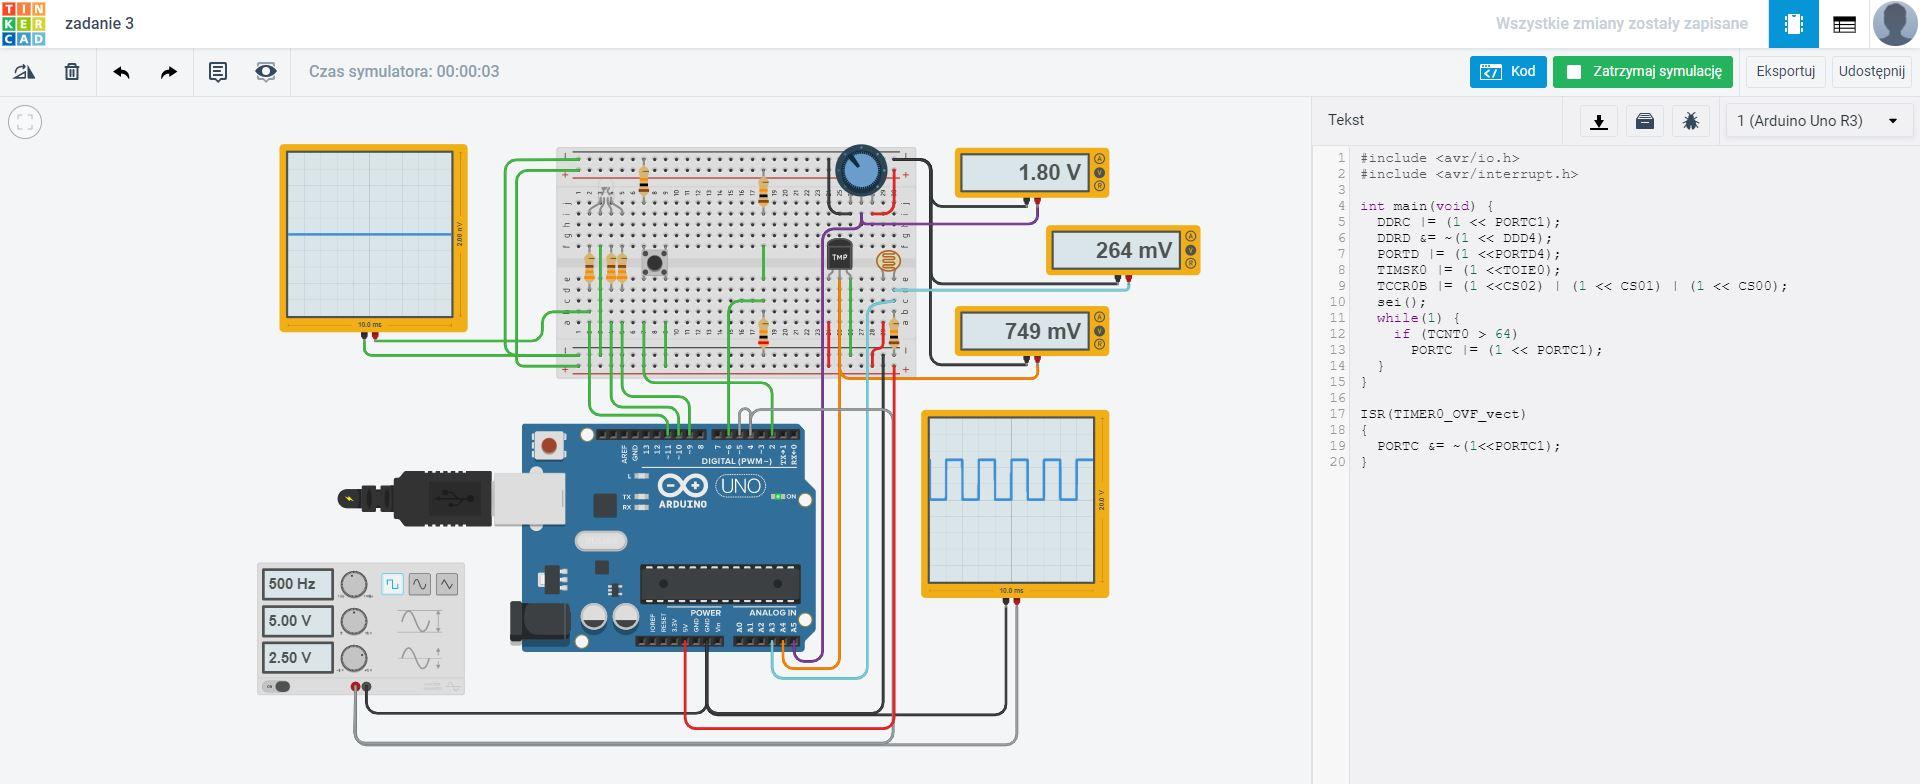
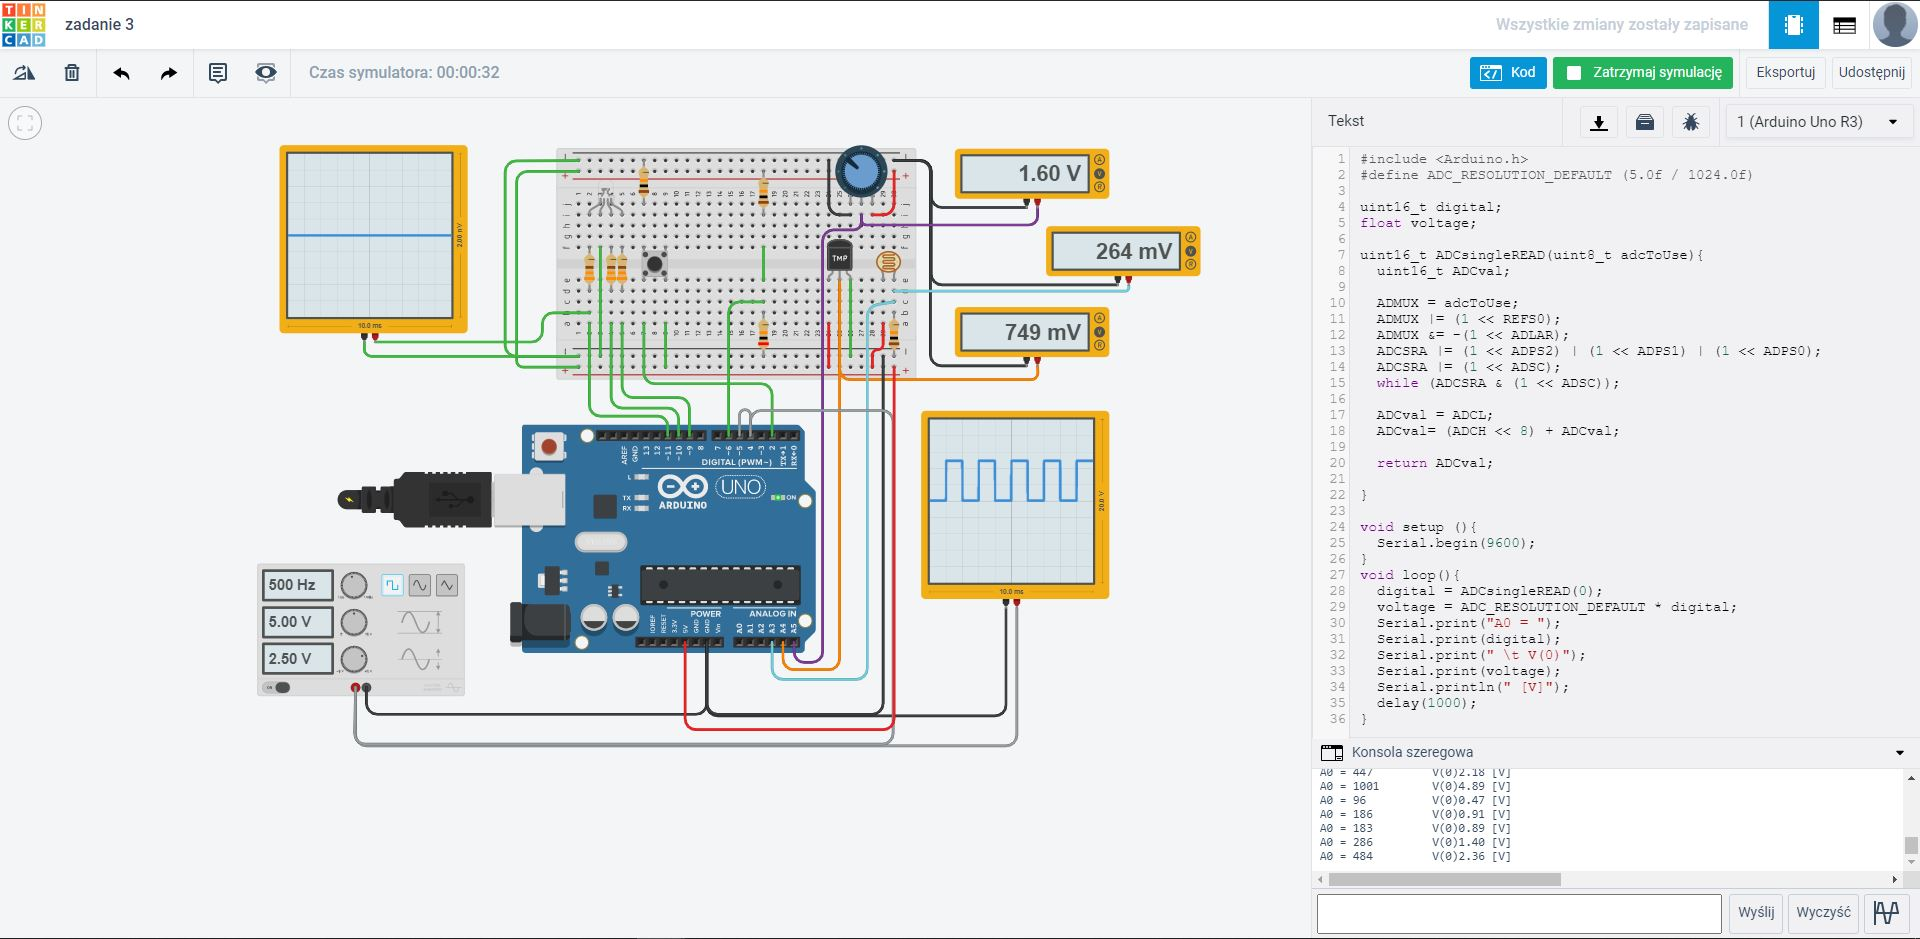
Wykonano zadanie 3.3.2 – ADCsingleREAD

diff --git a/Zadanie-3-3/src/main.cpp b/Zadanie-3-3/src/main.cpp
@@ -1,20 +1,35 @@
 #include <Arduino.h>
-#define ADC_RES_DEF (5.0f / 1024.0f)
+#define ADC_RESOLUTION_DEFAULT (5.0f / 1024.0f)
 
-void setup()
-{
-  Serial.begin(9600);
-  analogReference(DEFAULT);
-  pinMode(A5,INPUT);
+uint16_t digital;
+float voltage;
+
+uint16_t ADCsingleREAD(uint8_t adcToUse){
+  uint16_t ADCval;
+
+  ADMUX = adcToUse;
+  ADMUX |= (1 << REFS0);
+  ADMUX &= -(1 << ADLAR);
+  ADCSRA |= (1 << ADPS2) | (1 << ADPS1) | (1 << ADPS0);
+  ADCSRA |= (1 << ADSC);
+  while (ADCSRA & (1 << ADSC));
+
+  ADCval = ADCL;
+  ADCval= (ADCH << 8) + ADCval;
+
+  return ADCval;
 
 }
 
+void setup (){
+  Serial.begin(9600);
+}
 void loop(){
-  uint16_t digital = analogRead(A5);
-  float voltage = ADC_RES_DEF * digital;
-  Serial.print("A5 = ");
+  digital = ADCsingleREAD(0);
+  voltage = ADC_RESOLUTION_DEFAULT * digital;
+  Serial.print("A0 = ");
   Serial.print(digital);
-  Serial.print("\t V(t) = ");
+  Serial.print(" \t V(0)");
   Serial.print(voltage);
   Serial.println(" [V]");
   delay(1000);
